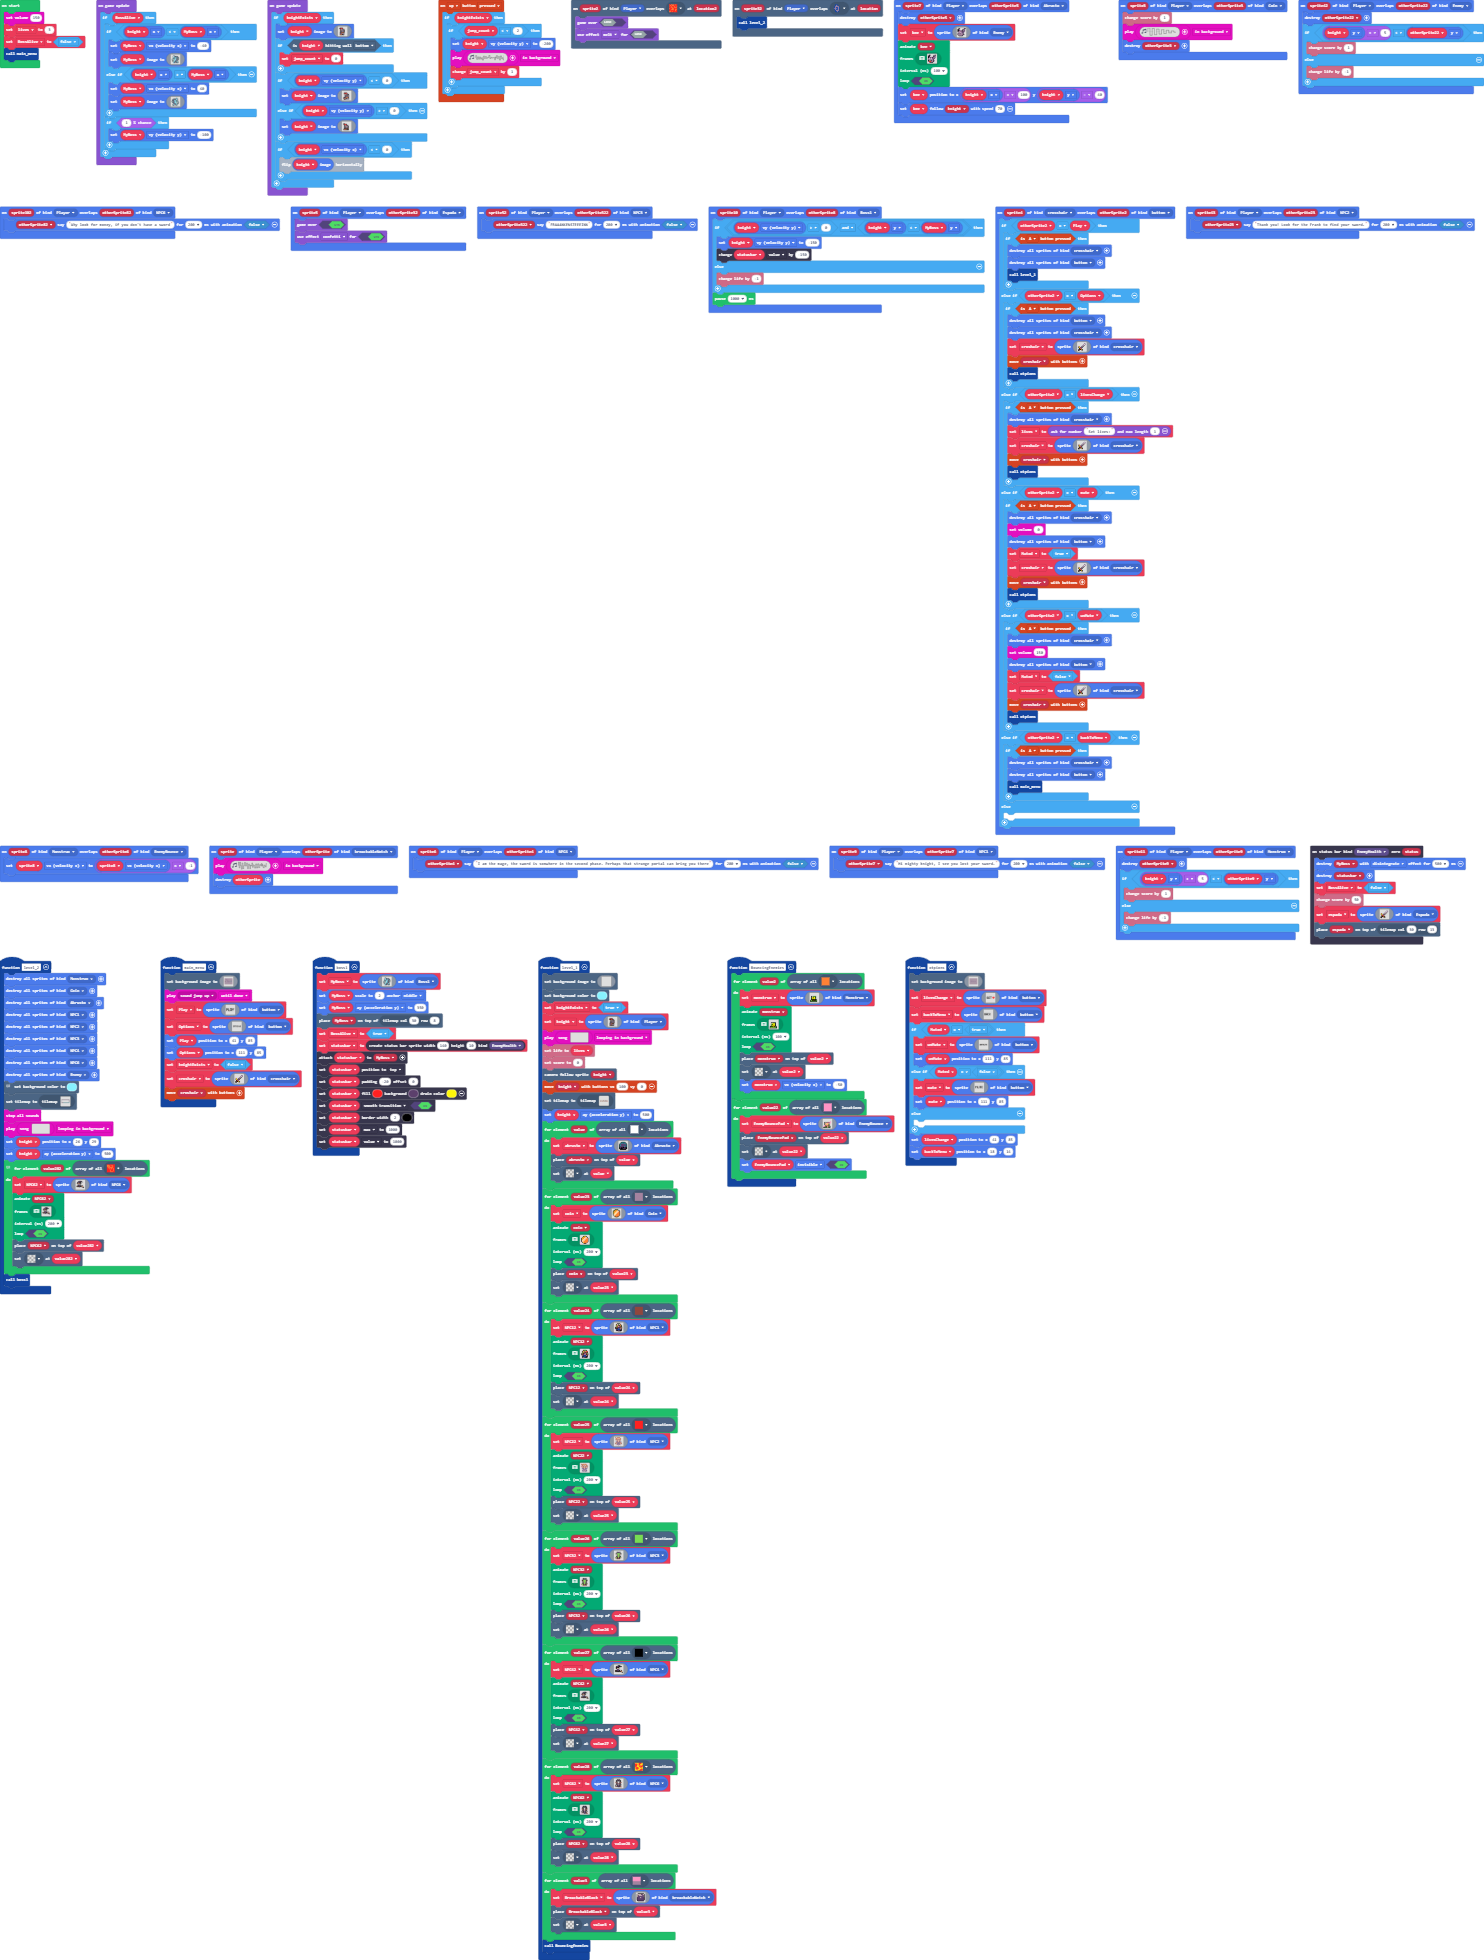
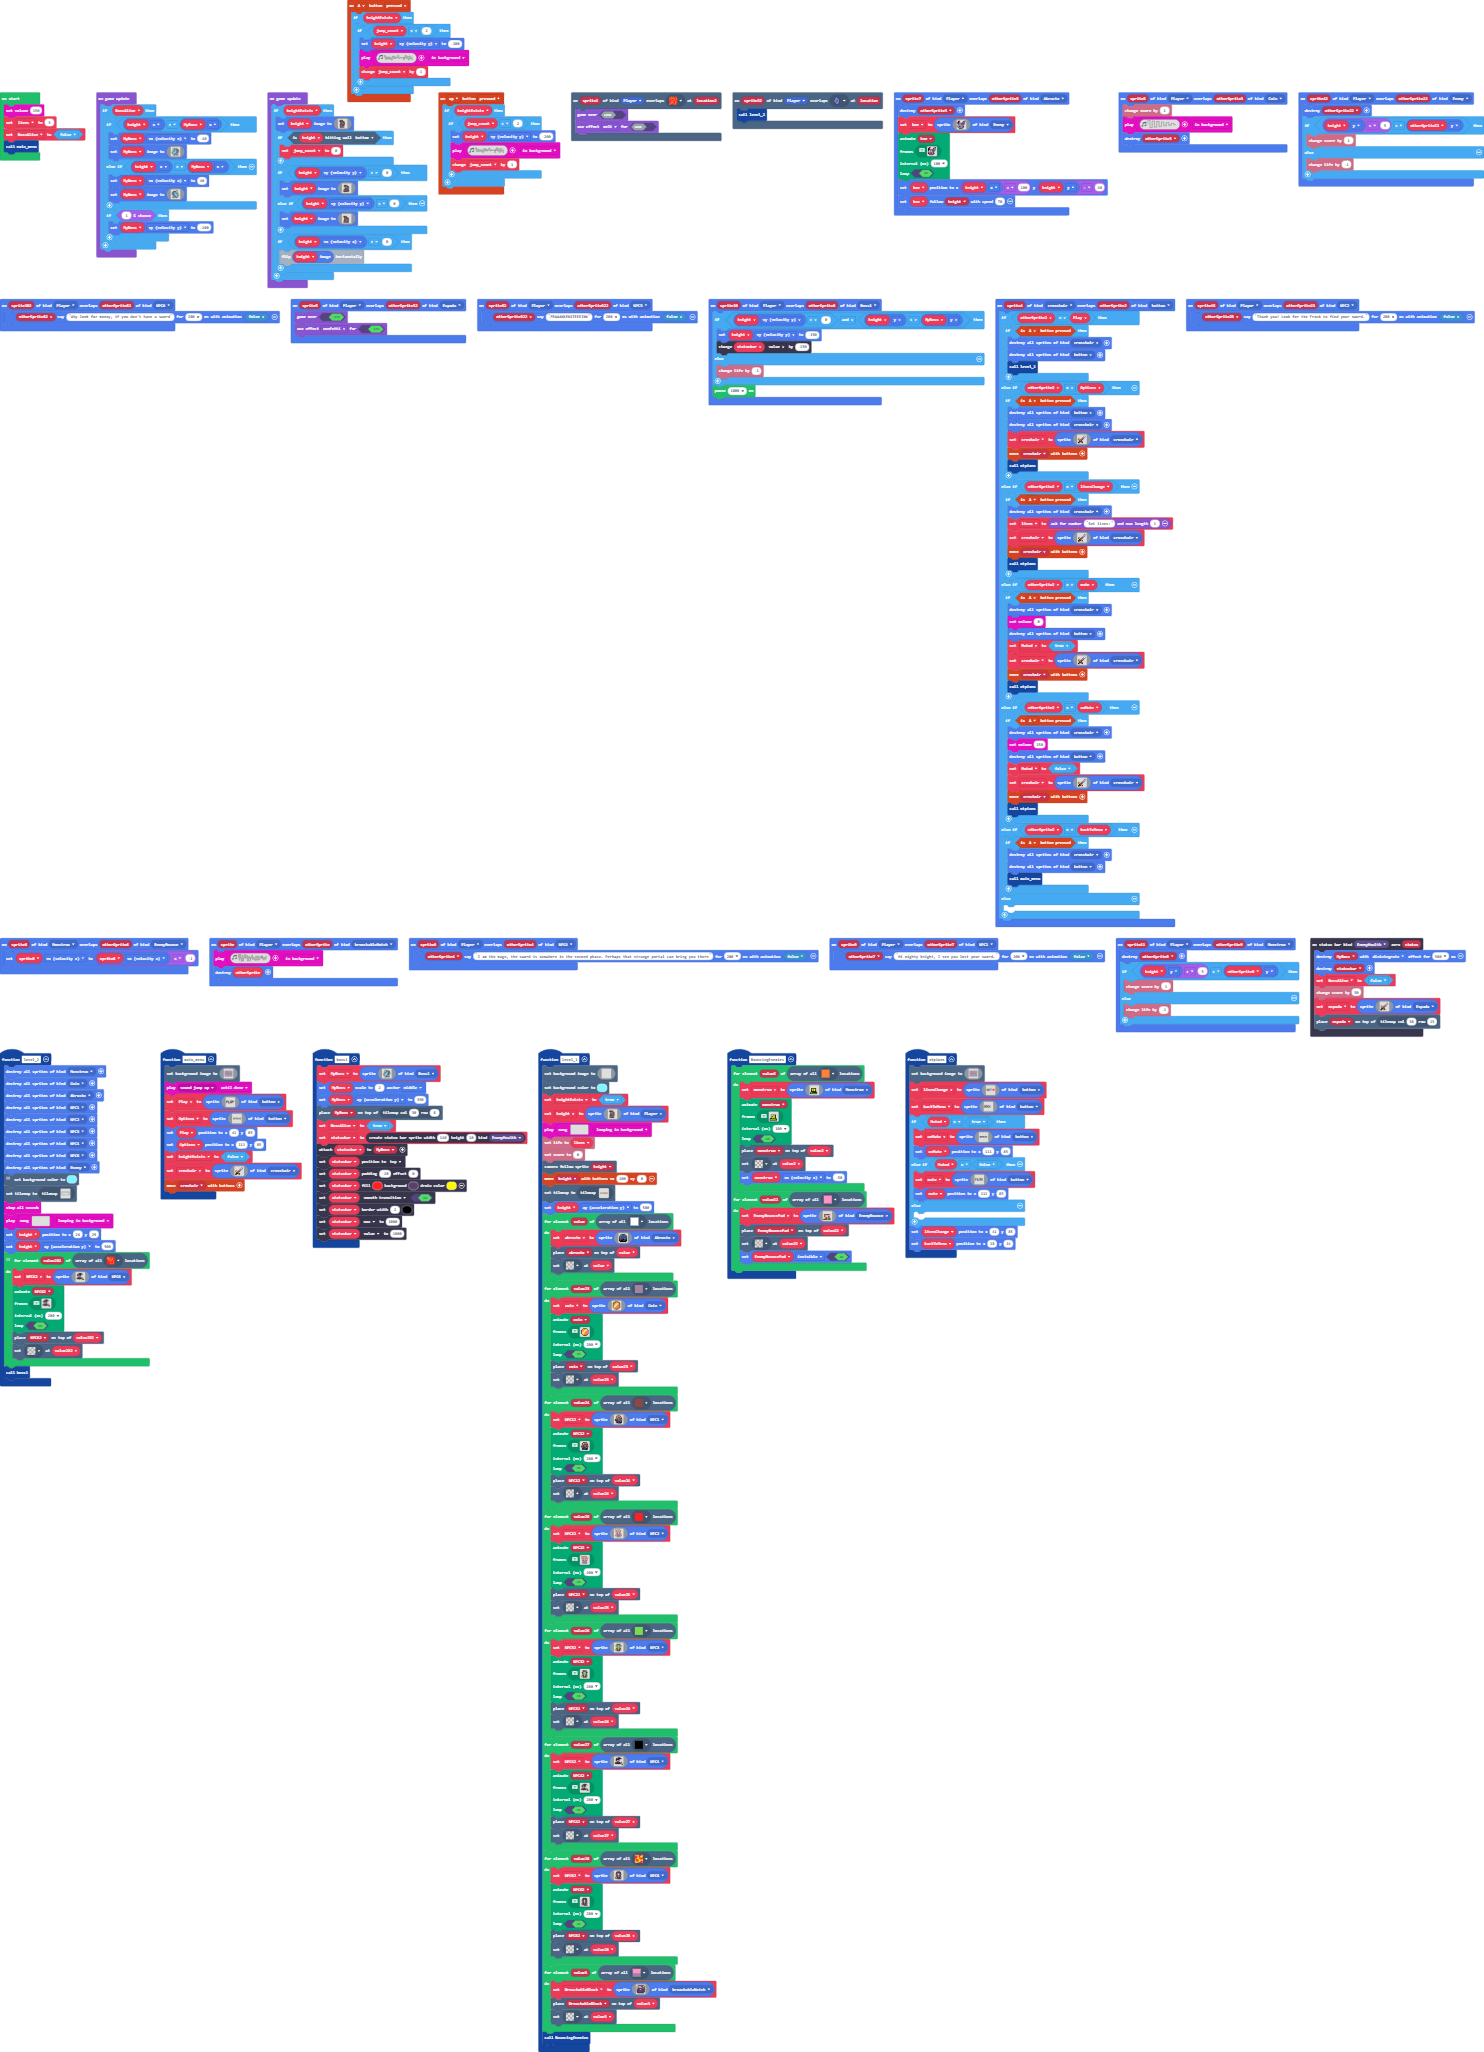
Update main.blocks, main.ts

Changed region(s): [[0.0, 0.0, 1.0, 0.9959]]

diff --git a/main.ts b/main.ts
@@ -361,6 +361,15 @@ scene.onOverlapTile(SpriteKind.Player, assets.tile`myTile32`, function (sprite32
 sprites.onOverlap(SpriteKind.Monstruo, SpriteKind.EnemyBounce, function (sprite8, otherSprite6) {
     sprite8.vx = sprite8.vx * -1
 })
+controller.A.onEvent(ControllerButtonEvent.Pressed, function () {
+    if (knightExists) {
+        if (jump_count < 2) {
+            knight.vy = -200
+            music.play(music.createSoundEffect(WaveShape.Noise, 330, 1801, 148, 148, 100, SoundExpressionEffect.None, InterpolationCurve.Linear), music.PlaybackMode.InBackground)
+            jump_count += 1
+        }
+    }
+})
 function BouncingEnemies () {
     for (let value2 of tiles.getTilesByType(assets.tile`bee`)) {
         monstruo = sprites.create(img`
